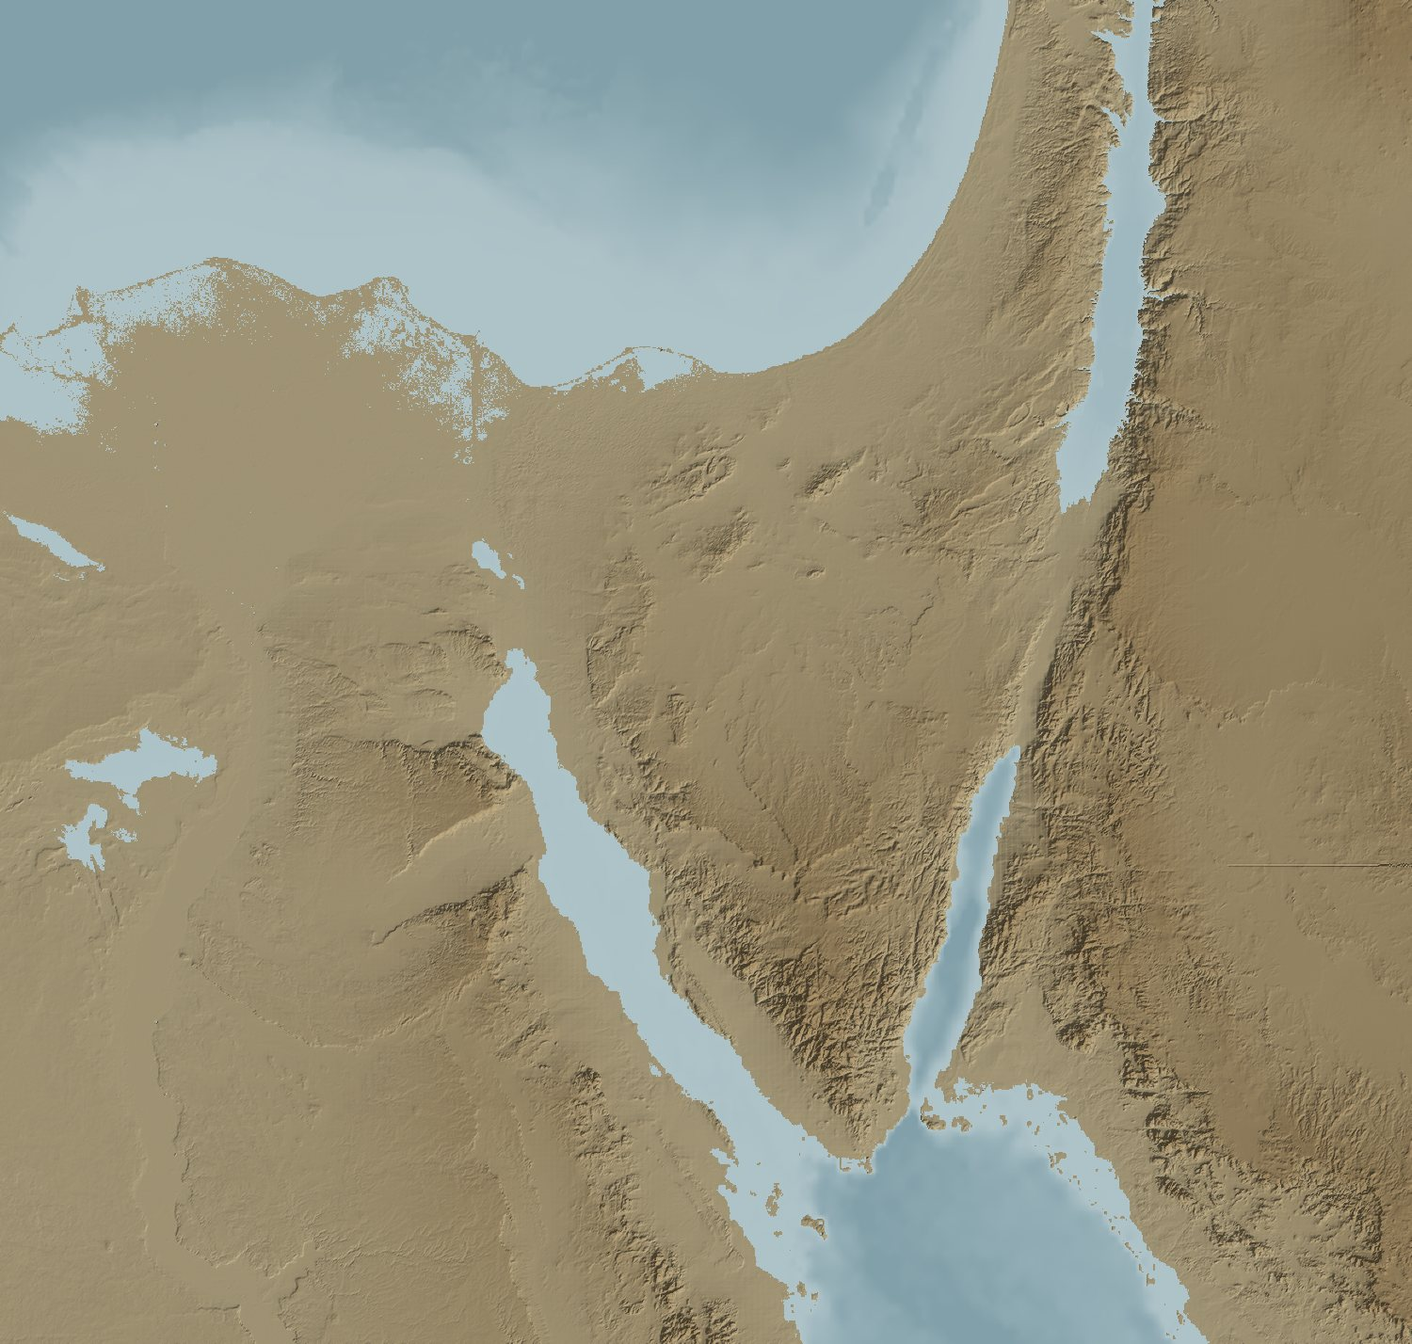
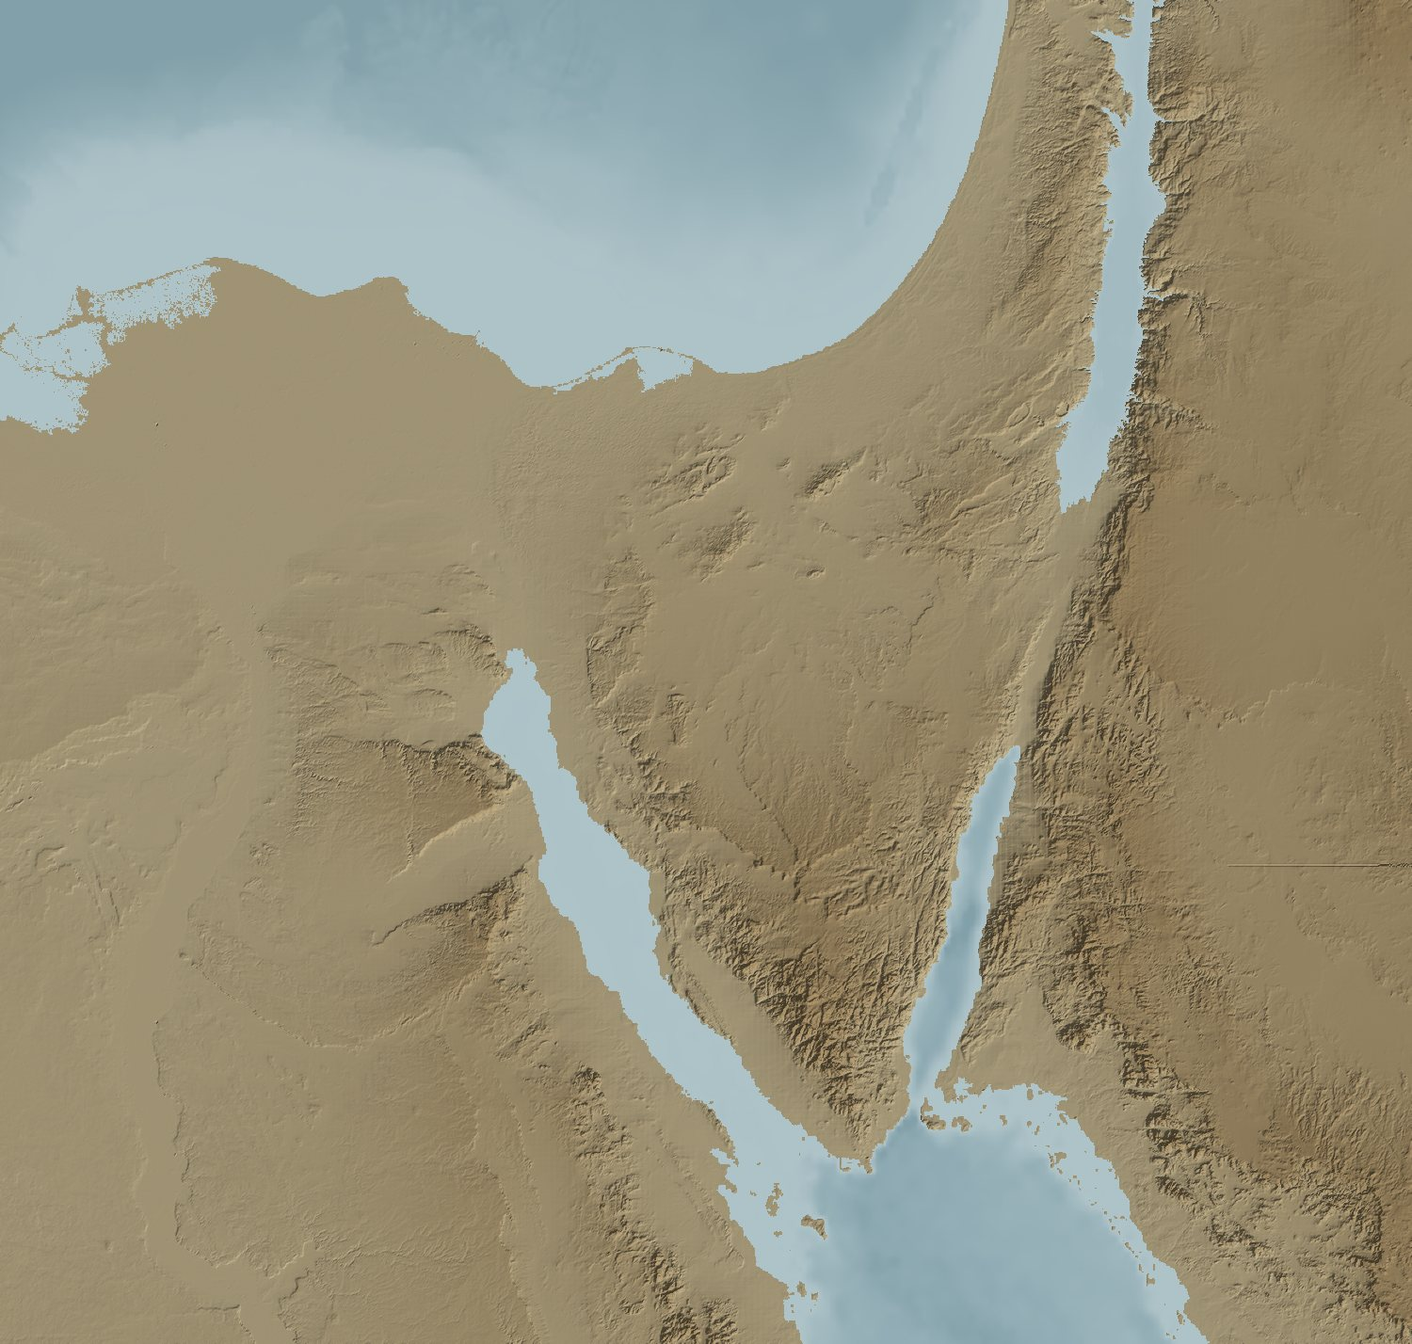
Fix map stop-clicks (pointer capture) + accurate Dead Sea on the relief
CLICKS: every map captured the pointer on pointer-DOWN, which redirected the
click off the stop to the SVG, so clicking a stop did nothing. Now the
pointer is captured only once a real drag begins, so a plain click passes
through to the stop. Applied to all five map generators (OT maps, journey
maps, Land of Israel, Nativity, explorer); OT maps also guard the
background-click revert against stop clicks. Verified: clicking a stop now
opens its detail in the info panel.

DEAD SEA: the relief painted everything below sea level as water, but the
Dead Sea is the lowest land on earth (-430 m) and the whole Jordan Rift is
below sea level — so the lake bled up and down the valley and looked
bloated. Now water = the real OCEAN (flood-filled from the map edges so
inland depressions are excluded) PLUS the named lakes drawn to their true
Natural-Earth outline (Dead Sea, Sea of Galilee). The Dead Sea is now
properly proportioned; the gulfs/seas keep their crisp coastlines.

(Basemap = open Terrarium elevation tiles; modern terrain, so exact ancient
shorelines can't be certain — but it's now geographically faithful.)

diff --git a/old-testament-timeline/bible-lands-maps.html b/old-testament-timeline/bible-lands-maps.html
@@ -150,10 +150,11 @@ function initZoom(svg, FW, FH) {
   st.zoomAt = (px,py,f)=>{ let nw=Math.min(FW,Math.max(st.MINW,st.w*f)); const k=nw/st.w; st.w=nw; st.h*=k; st.x=px-(px-st.x)*k; st.y=py-(py-st.y)*k; clamp(); apply(); };
   st.reset = ()=>{ st.x=0;st.y=0;st.w=FW;st.h=FH; apply(); };
   svg.addEventListener('wheel', e=>{ e.preventDefault(); const p=c2s(e.clientX,e.clientY); st.zoomAt(p.x,p.y,e.deltaY<0?0.84:1/0.84); }, {passive:false});
-  let drag=null, moved=false;
-  svg.addEventListener('pointerdown', e=>{ drag={x:e.clientX,y:e.clientY}; moved=false; svg.setPointerCapture(e.pointerId); });
+  let drag=null, moved=false, pid=null;
+  svg.addEventListener('pointerdown', e=>{ drag={x:e.clientX,y:e.clientY}; moved=false; pid=e.pointerId; });
   svg.addEventListener('pointermove', e=>{ if(!drag)return; const r=svg.getBoundingClientRect();
-    if(Math.abs(e.clientX-drag.x)+Math.abs(e.clientY-drag.y)>4) moved=true;
+    if(Math.abs(e.clientX-drag.x)+Math.abs(e.clientY-drag.y)>4 && !moved){ moved=true; try{svg.setPointerCapture(pid);}catch(_){} }
+    if(!moved) return;
     st.x-=(e.clientX-drag.x)/r.width*st.w; st.y-=(e.clientY-drag.y)/r.height*st.h; drag={x:e.clientX,y:e.clientY}; clamp(); apply(); });
   svg.addEventListener('pointerup', ()=> drag=null);
   let pinch=null;
@@ -162,7 +163,7 @@ function initZoom(svg, FW, FH) {
     const mx=(e.touches[0].clientX+e.touches[1].clientX)/2, my=(e.touches[0].clientY+e.touches[1].clientY)/2;
     if(pinch){ const p=c2s(mx,my); st.zoomAt(p.x,p.y,pinch/d); } pinch=d; }, {passive:false});
   svg.addEventListener('touchend', ()=>pinch=null);
-  svg.closest('.mapbox').addEventListener('click', ()=>{ if(!moved) setMapInfo(svg.closest('.mapsec')); });
+  svg.closest('.mapbox').addEventListener('click', (e)=>{ if(!moved && !e.target.closest('.pt')) setMapInfo(svg.closest('.mapsec')); });
 }
 
 // build each map's points + zoom

diff --git a/maps/index.html b/maps/index.html
@@ -233,8 +233,8 @@ function c2s(cx,cy){ const r=svg.getBoundingClientRect(); return {x:vb.x+(cx-r.l
 function zoomAt(px,py,f){ let nw=Math.min(FULLW,Math.max(MINW,vb.w*f)); const k=nw/vb.w; vb.w=nw; vb.h*=k; vb.x=px-(px-vb.x)*k; vb.y=py-(py-vb.y)*k; clamp(); ap(); }
 svg.addEventListener('wheel',e=>{ e.preventDefault(); const p=c2s(e.clientX,e.clientY); zoomAt(p.x,p.y,e.deltaY<0?0.82:1/0.82); },{passive:false});
 let drag=null, moved=false;
-svg.addEventListener('pointerdown',e=>{ drag={x:e.clientX,y:e.clientY}; moved=false; svg.setPointerCapture(e.pointerId); });
-svg.addEventListener('pointermove',e=>{ if(!drag)return; const r=svg.getBoundingClientRect(); if(Math.abs(e.clientX-drag.x)+Math.abs(e.clientY-drag.y)>4) moved=true; vb.x-=(e.clientX-drag.x)/r.width*vb.w; vb.y-=(e.clientY-drag.y)/r.height*vb.h; drag={x:e.clientX,y:e.clientY}; clamp(); ap(); });
+svg.addEventListener('pointerdown',e=>{ drag={x:e.clientX,y:e.clientY,pid:e.pointerId}; moved=false; });
+svg.addEventListener('pointermove',e=>{ if(!drag)return; const r=svg.getBoundingClientRect(); if(Math.abs(e.clientX-drag.x)+Math.abs(e.clientY-drag.y)>4&&!moved){ moved=true; try{svg.setPointerCapture(drag.pid);}catch(_){} } if(!moved)return; vb.x-=(e.clientX-drag.x)/r.width*vb.w; vb.y-=(e.clientY-drag.y)/r.height*vb.h; drag={x:e.clientX,y:e.clientY,pid:drag.pid}; clamp(); ap(); });
 svg.addEventListener('pointerup',()=>drag=null);
 let pinch=null;
 svg.addEventListener('touchmove',e=>{ if(e.touches.length!==2)return; e.preventDefault(); const d=Math.hypot(e.touches[0].clientX-e.touches[1].clientX,e.touches[0].clientY-e.touches[1].clientY); const mx=(e.touches[0].clientX+e.touches[1].clientX)/2,my=(e.touches[0].clientY+e.touches[1].clientY)/2; if(pinch){const p=c2s(mx,my); zoomAt(p.x,p.y,pinch/d);} pinch=d; },{passive:false});

diff --git a/the-life-of-christ/nativity-route.html b/the-life-of-christ/nativity-route.html
@@ -112,8 +112,8 @@ const c2s = (cx,cy)=>{ const r=svg.getBoundingClientRect(); return {x:vb.x+(cx-r
 const zoomAt = (px,py,f)=>{ let nw=Math.min(FULLW,Math.max(MINW,vb.w*f)); const k=nw/vb.w; vb.w=nw; vb.h*=k; vb.x=px-(px-vb.x)*k; vb.y=py-(py-vb.y)*k; cl(); ap(); };
 svg.addEventListener('wheel',e=>{ e.preventDefault(); const p=c2s(e.clientX,e.clientY); zoomAt(p.x,p.y,e.deltaY<0?0.84:1/0.84); },{passive:false});
 let drag=null, moved=false;
-svg.addEventListener('pointerdown',e=>{ drag={x:e.clientX,y:e.clientY}; moved=false; svg.setPointerCapture(e.pointerId); });
-svg.addEventListener('pointermove',e=>{ if(!drag)return; const r=svg.getBoundingClientRect(); if(Math.abs(e.clientX-drag.x)+Math.abs(e.clientY-drag.y)>4) moved=true; vb.x-=(e.clientX-drag.x)/r.width*vb.w; vb.y-=(e.clientY-drag.y)/r.height*vb.h; drag={x:e.clientX,y:e.clientY}; cl(); ap(); });
+svg.addEventListener('pointerdown',e=>{ drag={x:e.clientX,y:e.clientY,pid:e.pointerId}; moved=false; });
+svg.addEventListener('pointermove',e=>{ if(!drag)return; const r=svg.getBoundingClientRect(); if(Math.abs(e.clientX-drag.x)+Math.abs(e.clientY-drag.y)>4&&!moved){ moved=true; try{svg.setPointerCapture(drag.pid);}catch(_){} } if(!moved)return; vb.x-=(e.clientX-drag.x)/r.width*vb.w; vb.y-=(e.clientY-drag.y)/r.height*vb.h; drag={x:e.clientX,y:e.clientY,pid:drag.pid}; cl(); ap(); });
 svg.addEventListener('pointerup',()=>drag=null);
 let pinch=null;
 svg.addEventListener('touchmove',e=>{ if(e.touches.length!==2)return; e.preventDefault(); const d=Math.hypot(e.touches[0].clientX-e.touches[1].clientX,e.touches[0].clientY-e.touches[1].clientY); const mx=(e.touches[0].clientX+e.touches[1].clientX)/2,my=(e.touches[0].clientY+e.touches[1].clientY)/2; if(pinch){const p=c2s(mx,my); zoomAt(p.x,p.y,pinch/d);} pinch=d; },{passive:false});

diff --git a/the-church-christ-built/journey-maps.html b/the-church-christ-built/journey-maps.html
@@ -155,8 +155,8 @@ function zoomAt(px,py,f){ let nw=Math.min(FULLW,Math.max(MINW,vb.w*f)); const k=
 function resetVB(){ vb={x:0,y:0,w:FULLW,h:FULLH}; applyVB(); }
 svgEl.addEventListener('wheel',e=>{ e.preventDefault(); const p=c2s(e.clientX,e.clientY); zoomAt(p.x,p.y,e.deltaY<0?0.84:1/0.84); },{passive:false});
 let mdrag=null, mmoved=false;
-svgEl.addEventListener('pointerdown',e=>{ mdrag={x:e.clientX,y:e.clientY}; mmoved=false; svgEl.setPointerCapture(e.pointerId); });
-svgEl.addEventListener('pointermove',e=>{ if(!mdrag)return; const r=svgEl.getBoundingClientRect(); if(Math.abs(e.clientX-mdrag.x)+Math.abs(e.clientY-mdrag.y)>4) mmoved=true; vb.x-=(e.clientX-mdrag.x)/r.width*vb.w; vb.y-=(e.clientY-mdrag.y)/r.height*vb.h; mdrag={x:e.clientX,y:e.clientY}; clampVB(); applyVB(); });
+svgEl.addEventListener('pointerdown',e=>{ mdrag={x:e.clientX,y:e.clientY,pid:e.pointerId}; mmoved=false; });
+svgEl.addEventListener('pointermove',e=>{ if(!mdrag)return; const r=svgEl.getBoundingClientRect(); if(Math.abs(e.clientX-mdrag.x)+Math.abs(e.clientY-mdrag.y)>4&&!mmoved){ mmoved=true; try{svgEl.setPointerCapture(mdrag.pid);}catch(_){} } if(!mmoved)return; vb.x-=(e.clientX-mdrag.x)/r.width*vb.w; vb.y-=(e.clientY-mdrag.y)/r.height*vb.h; mdrag={x:e.clientX,y:e.clientY,pid:mdrag.pid}; clampVB(); applyVB(); });
 svgEl.addEventListener('pointerup',()=>mdrag=null);
 let mpinch=null;
 svgEl.addEventListener('touchmove',e=>{ if(e.touches.length!==2)return; e.preventDefault(); const d=Math.hypot(e.touches[0].clientX-e.touches[1].clientX,e.touches[0].clientY-e.touches[1].clientY); const mx=(e.touches[0].clientX+e.touches[1].clientX)/2,my=(e.touches[0].clientY+e.touches[1].clientY)/2; if(mpinch){const p=c2s(mx,my); zoomAt(p.x,p.y,mpinch/d);} mpinch=d; },{passive:false});

diff --git a/the-life-of-christ/land-of-israel.html b/the-life-of-christ/land-of-israel.html
@@ -97,10 +97,11 @@ function c2s(cx,cy){ const r = svg.getBoundingClientRect(); return { x: vb.x + (
 function zoomAt(px,py,f){ let nw = Math.min(FULL.w, Math.max(MINW, vb.w*f)); const k = nw/vb.w; vb.w = nw; vb.h *= k; vb.x = px-(px-vb.x)*k; vb.y = py-(py-vb.y)*k; clampPan(); apply(); }
 svg.addEventListener('wheel', e => { e.preventDefault(); const p = c2s(e.clientX,e.clientY); zoomAt(p.x,p.y, e.deltaY<0?0.84:1/0.84); }, {passive:false});
 let drag = null, moved = false;
-svg.addEventListener('pointerdown', e => { drag = {x:e.clientX,y:e.clientY}; moved = false; svg.setPointerCapture(e.pointerId); });
+svg.addEventListener('pointerdown', e => { drag = {x:e.clientX,y:e.clientY,pid:e.pointerId}; moved = false; });
 svg.addEventListener('pointermove', e => { if(!drag) return; const r = svg.getBoundingClientRect();
-  if (Math.abs(e.clientX-drag.x)+Math.abs(e.clientY-drag.y) > 4) moved = true;
-  vb.x -= (e.clientX-drag.x)/r.width*vb.w; vb.y -= (e.clientY-drag.y)/r.height*vb.h; drag = {x:e.clientX,y:e.clientY}; clampPan(); apply(); });
+  if (Math.abs(e.clientX-drag.x)+Math.abs(e.clientY-drag.y) > 4 && !moved) { moved = true; try{svg.setPointerCapture(drag.pid);}catch(_){} }
+  if (!moved) return;
+  vb.x -= (e.clientX-drag.x)/r.width*vb.w; vb.y -= (e.clientY-drag.y)/r.height*vb.h; drag = {x:e.clientX,y:e.clientY,pid:drag.pid}; clampPan(); apply(); });
 svg.addEventListener('pointerup', () => { drag = null; });
 // pinch
 let pinch = null;

diff --git a/tools/build_relief.py b/tools/build_relief.py
@@ -10,9 +10,9 @@ a relief — it needs network to fetch the elevation tiles.
 
   python3 tools/build_relief.py
 """
-import io, math, os, urllib.request
+import io, json, math, os, urllib.request
 import numpy as np
-from PIL import Image
+from PIL import Image, ImageDraw
 
 ROOT = os.path.dirname(os.path.dirname(os.path.abspath(__file__)))
 UA = "Mozilla/5.0 NobleMindRelief/1.0"
@@ -35,6 +35,31 @@ def fetch_tile(z, x, y):
 def merc_y(lat):
     lr = math.radians(lat)
     return (1 - math.log(math.tan(lr) + 1 / math.cos(lr)) / math.pi) / 2
+
+
+NE_LAKES = "/tmp/ne_lakes.geojson"
+
+def rasterize_lakes(bbox, out_w, out_h):
+    """A boolean mask of the named inland lakes (Dead Sea, Sea of Galilee) drawn
+    to their true Natural Earth outline, so the water body is the actual lake —
+    not the whole below-sea-level rift."""
+    lon0, lon1, lat0, lat1 = bbox
+    if not os.path.exists(NE_LAKES):
+        url = "https://raw.githubusercontent.com/nvkelso/natural-earth-vector/master/geojson/ne_10m_lakes.geojson"
+        req = urllib.request.Request(url, headers={"User-Agent": UA})
+        with urllib.request.urlopen(req, timeout=120) as r, open(NE_LAKES, "wb") as f:
+            f.write(r.read())
+    mask = Image.new("1", (out_w, out_h), 0)
+    d = ImageDraw.Draw(mask)
+    for feat in json.load(open(NE_LAKES))["features"]:
+        if (feat["properties"].get("name") or "") not in ("Dead Sea", "Sea of Galilee"):
+            continue
+        g = feat["geometry"]; polys = [g["coordinates"]] if g["type"] == "Polygon" else g["coordinates"]
+        for poly in polys:
+            pts = [((lon - lon0) / (lon1 - lon0) * out_w, (lat1 - lat) / (lat1 - lat0) * out_h) for lon, lat in poly[0]]
+            if len(pts) >= 3:
+                d.polygon(pts, fill=1)
+    return np.asarray(mask, bool)
 
 
 def build_relief(bbox, zoom, out_path, out_w=1500):
@@ -77,18 +102,27 @@ def build_relief(bbox, zoom, out_path, out_w=1500):
     hs = (math.sin(alt) * np.cos(slope) + math.cos(alt) * np.sin(slope) * np.cos(az - aspect))
     hs = np.clip(hs, 0, 1)
 
+    # ----- water = the real OCEAN (flood-filled from the map edges, so the
+    # below-sea-level Jordan Rift is NOT painted as sea) + the named inland
+    # lakes drawn to their true outline (Dead Sea, Sea of Galilee). -----
+    import scipy.ndimage as ndi
+    sea = elev <= 0
+    lbl, _ = ndi.label(sea)
+    border = (set(lbl[0, :]) | set(lbl[-1, :]) | set(lbl[:, 0]) | set(lbl[:, -1])) - {0}
+    ocean = np.isin(lbl, list(border))
+    water = ocean | rasterize_lakes(bbox, out_w, out_h)
+
     img = np.zeros((out_h, out_w, 3), float)
-    land = elev > 0
+    land_m = ~water
     # land: parchment tan -> browner with elevation, modulated by hillshade
     hyp = np.clip(elev / 1400.0, 0, 1)[..., None]
     base = LAND * (1 - hyp) + LAND_HI * hyp
     shade = np.clip(0.55 + 0.7 * (hs - 0.5), 0.35, 1.12)[..., None]
     land_rgb = np.clip(base * shade, 0, 255)
-    # water: shallow -> deep by depth
-    depth = np.clip(-elev / 1200.0, 0, 1)[..., None]
+    depth = np.clip(-elev / 1500.0, 0, 1)[..., None]
     water_rgb = WATER * (1 - depth) + WATER_DEEP * depth
-    img[land] = land_rgb[land]
-    img[~land] = water_rgb[~land]
+    img[land_m] = land_rgb[land_m]
+    img[water] = water_rgb[water]
 
     Image.fromarray(img.astype(np.uint8)).save(out_path, quality=84, optimize=True)
     sz = os.path.getsize(out_path) / 1e3

diff --git a/tools/build_ot_maps.py b/tools/build_ot_maps.py
@@ -380,10 +380,11 @@ function initZoom(svg, FW, FH) {
   st.zoomAt = (px,py,f)=>{ let nw=Math.min(FW,Math.max(st.MINW,st.w*f)); const k=nw/st.w; st.w=nw; st.h*=k; st.x=px-(px-st.x)*k; st.y=py-(py-st.y)*k; clamp(); apply(); };
   st.reset = ()=>{ st.x=0;st.y=0;st.w=FW;st.h=FH; apply(); };
   svg.addEventListener('wheel', e=>{ e.preventDefault(); const p=c2s(e.clientX,e.clientY); st.zoomAt(p.x,p.y,e.deltaY<0?0.84:1/0.84); }, {passive:false});
-  let drag=null, moved=false;
-  svg.addEventListener('pointerdown', e=>{ drag={x:e.clientX,y:e.clientY}; moved=false; svg.setPointerCapture(e.pointerId); });
+  let drag=null, moved=false, pid=null;
+  svg.addEventListener('pointerdown', e=>{ drag={x:e.clientX,y:e.clientY}; moved=false; pid=e.pointerId; });
   svg.addEventListener('pointermove', e=>{ if(!drag)return; const r=svg.getBoundingClientRect();
-    if(Math.abs(e.clientX-drag.x)+Math.abs(e.clientY-drag.y)>4) moved=true;
+    if(Math.abs(e.clientX-drag.x)+Math.abs(e.clientY-drag.y)>4 && !moved){ moved=true; try{svg.setPointerCapture(pid);}catch(_){} }
+    if(!moved) return;
     st.x-=(e.clientX-drag.x)/r.width*st.w; st.y-=(e.clientY-drag.y)/r.height*st.h; drag={x:e.clientX,y:e.clientY}; clamp(); apply(); });
   svg.addEventListener('pointerup', ()=> drag=null);
   let pinch=null;
@@ -392,7 +393,7 @@ function initZoom(svg, FW, FH) {
     const mx=(e.touches[0].clientX+e.touches[1].clientX)/2, my=(e.touches[0].clientY+e.touches[1].clientY)/2;
     if(pinch){ const p=c2s(mx,my); st.zoomAt(p.x,p.y,pinch/d); } pinch=d; }, {passive:false});
   svg.addEventListener('touchend', ()=>pinch=null);
-  svg.closest('.mapbox').addEventListener('click', ()=>{ if(!moved) setMapInfo(svg.closest('.mapsec')); });
+  svg.closest('.mapbox').addEventListener('click', (e)=>{ if(!moved && !e.target.closest('.pt')) setMapInfo(svg.closest('.mapsec')); });
 }
 
 // build each map's points + zoom

diff --git a/tools/build_explorer.py b/tools/build_explorer.py
@@ -378,8 +378,8 @@ function c2s(cx,cy){{ const r=svg.getBoundingClientRect(); return {{x:vb.x+(cx-r
 function zoomAt(px,py,f){{ let nw=Math.min(FULLW,Math.max(MINW,vb.w*f)); const k=nw/vb.w; vb.w=nw; vb.h*=k; vb.x=px-(px-vb.x)*k; vb.y=py-(py-vb.y)*k; clamp(); ap(); }}
 svg.addEventListener('wheel',e=>{{ e.preventDefault(); const p=c2s(e.clientX,e.clientY); zoomAt(p.x,p.y,e.deltaY<0?0.82:1/0.82); }},{{passive:false}});
 let drag=null, moved=false;
-svg.addEventListener('pointerdown',e=>{{ drag={{x:e.clientX,y:e.clientY}}; moved=false; svg.setPointerCapture(e.pointerId); }});
-svg.addEventListener('pointermove',e=>{{ if(!drag)return; const r=svg.getBoundingClientRect(); if(Math.abs(e.clientX-drag.x)+Math.abs(e.clientY-drag.y)>4) moved=true; vb.x-=(e.clientX-drag.x)/r.width*vb.w; vb.y-=(e.clientY-drag.y)/r.height*vb.h; drag={{x:e.clientX,y:e.clientY}}; clamp(); ap(); }});
+svg.addEventListener('pointerdown',e=>{{ drag={{x:e.clientX,y:e.clientY,pid:e.pointerId}}; moved=false; }});
+svg.addEventListener('pointermove',e=>{{ if(!drag)return; const r=svg.getBoundingClientRect(); if(Math.abs(e.clientX-drag.x)+Math.abs(e.clientY-drag.y)>4&&!moved){{ moved=true; try{{svg.setPointerCapture(drag.pid);}}catch(_){{}} }} if(!moved)return; vb.x-=(e.clientX-drag.x)/r.width*vb.w; vb.y-=(e.clientY-drag.y)/r.height*vb.h; drag={{x:e.clientX,y:e.clientY,pid:drag.pid}}; clamp(); ap(); }});
 svg.addEventListener('pointerup',()=>drag=null);
 let pinch=null;
 svg.addEventListener('touchmove',e=>{{ if(e.touches.length!==2)return; e.preventDefault(); const d=Math.hypot(e.touches[0].clientX-e.touches[1].clientX,e.touches[0].clientY-e.touches[1].clientY); const mx=(e.touches[0].clientX+e.touches[1].clientX)/2,my=(e.touches[0].clientY+e.touches[1].clientY)/2; if(pinch){{const p=c2s(mx,my); zoomAt(p.x,p.y,pinch/d);}} pinch=d; }},{{passive:false}});

diff --git a/tools/build_nativity_map.py b/tools/build_nativity_map.py
@@ -214,8 +214,8 @@ const c2s = (cx,cy)=>{{ const r=svg.getBoundingClientRect(); return {{x:vb.x+(cx
 const zoomAt = (px,py,f)=>{{ let nw=Math.min(FULLW,Math.max(MINW,vb.w*f)); const k=nw/vb.w; vb.w=nw; vb.h*=k; vb.x=px-(px-vb.x)*k; vb.y=py-(py-vb.y)*k; cl(); ap(); }};
 svg.addEventListener('wheel',e=>{{ e.preventDefault(); const p=c2s(e.clientX,e.clientY); zoomAt(p.x,p.y,e.deltaY<0?0.84:1/0.84); }},{{passive:false}});
 let drag=null, moved=false;
-svg.addEventListener('pointerdown',e=>{{ drag={{x:e.clientX,y:e.clientY}}; moved=false; svg.setPointerCapture(e.pointerId); }});
-svg.addEventListener('pointermove',e=>{{ if(!drag)return; const r=svg.getBoundingClientRect(); if(Math.abs(e.clientX-drag.x)+Math.abs(e.clientY-drag.y)>4) moved=true; vb.x-=(e.clientX-drag.x)/r.width*vb.w; vb.y-=(e.clientY-drag.y)/r.height*vb.h; drag={{x:e.clientX,y:e.clientY}}; cl(); ap(); }});
+svg.addEventListener('pointerdown',e=>{{ drag={{x:e.clientX,y:e.clientY,pid:e.pointerId}}; moved=false; }});
+svg.addEventListener('pointermove',e=>{{ if(!drag)return; const r=svg.getBoundingClientRect(); if(Math.abs(e.clientX-drag.x)+Math.abs(e.clientY-drag.y)>4&&!moved){{ moved=true; try{{svg.setPointerCapture(drag.pid);}}catch(_){{}} }} if(!moved)return; vb.x-=(e.clientX-drag.x)/r.width*vb.w; vb.y-=(e.clientY-drag.y)/r.height*vb.h; drag={{x:e.clientX,y:e.clientY,pid:drag.pid}}; cl(); ap(); }});
 svg.addEventListener('pointerup',()=>drag=null);
 let pinch=null;
 svg.addEventListener('touchmove',e=>{{ if(e.touches.length!==2)return; e.preventDefault(); const d=Math.hypot(e.touches[0].clientX-e.touches[1].clientX,e.touches[0].clientY-e.touches[1].clientY); const mx=(e.touches[0].clientX+e.touches[1].clientX)/2,my=(e.touches[0].clientY+e.touches[1].clientY)/2; if(pinch){{const p=c2s(mx,my); zoomAt(p.x,p.y,pinch/d);}} pinch=d; }},{{passive:false}});

diff --git a/tools/build_journey_maps.py b/tools/build_journey_maps.py
@@ -386,8 +386,8 @@ function zoomAt(px,py,f){{ let nw=Math.min(FULLW,Math.max(MINW,vb.w*f)); const k
 function resetVB(){{ vb={{x:0,y:0,w:FULLW,h:FULLH}}; applyVB(); }}
 svgEl.addEventListener('wheel',e=>{{ e.preventDefault(); const p=c2s(e.clientX,e.clientY); zoomAt(p.x,p.y,e.deltaY<0?0.84:1/0.84); }},{{passive:false}});
 let mdrag=null, mmoved=false;
-svgEl.addEventListener('pointerdown',e=>{{ mdrag={{x:e.clientX,y:e.clientY}}; mmoved=false; svgEl.setPointerCapture(e.pointerId); }});
-svgEl.addEventListener('pointermove',e=>{{ if(!mdrag)return; const r=svgEl.getBoundingClientRect(); if(Math.abs(e.clientX-mdrag.x)+Math.abs(e.clientY-mdrag.y)>4) mmoved=true; vb.x-=(e.clientX-mdrag.x)/r.width*vb.w; vb.y-=(e.clientY-mdrag.y)/r.height*vb.h; mdrag={{x:e.clientX,y:e.clientY}}; clampVB(); applyVB(); }});
+svgEl.addEventListener('pointerdown',e=>{{ mdrag={{x:e.clientX,y:e.clientY,pid:e.pointerId}}; mmoved=false; }});
+svgEl.addEventListener('pointermove',e=>{{ if(!mdrag)return; const r=svgEl.getBoundingClientRect(); if(Math.abs(e.clientX-mdrag.x)+Math.abs(e.clientY-mdrag.y)>4&&!mmoved){{ mmoved=true; try{{svgEl.setPointerCapture(mdrag.pid);}}catch(_){{}} }} if(!mmoved)return; vb.x-=(e.clientX-mdrag.x)/r.width*vb.w; vb.y-=(e.clientY-mdrag.y)/r.height*vb.h; mdrag={{x:e.clientX,y:e.clientY,pid:mdrag.pid}}; clampVB(); applyVB(); }});
 svgEl.addEventListener('pointerup',()=>mdrag=null);
 let mpinch=null;
 svgEl.addEventListener('touchmove',e=>{{ if(e.touches.length!==2)return; e.preventDefault(); const d=Math.hypot(e.touches[0].clientX-e.touches[1].clientX,e.touches[0].clientY-e.touches[1].clientY); const mx=(e.touches[0].clientX+e.touches[1].clientX)/2,my=(e.touches[0].clientY+e.touches[1].clientY)/2; if(mpinch){{const p=c2s(mx,my); zoomAt(p.x,p.y,mpinch/d);}} mpinch=d; }},{{passive:false}});

diff --git a/tools/build_land_map.py b/tools/build_land_map.py
@@ -282,10 +282,11 @@ function c2s(cx,cy){ const r = svg.getBoundingClientRect(); return { x: vb.x + (
 function zoomAt(px,py,f){ let nw = Math.min(FULL.w, Math.max(MINW, vb.w*f)); const k = nw/vb.w; vb.w = nw; vb.h *= k; vb.x = px-(px-vb.x)*k; vb.y = py-(py-vb.y)*k; clampPan(); apply(); }
 svg.addEventListener('wheel', e => { e.preventDefault(); const p = c2s(e.clientX,e.clientY); zoomAt(p.x,p.y, e.deltaY<0?0.84:1/0.84); }, {passive:false});
 let drag = null, moved = false;
-svg.addEventListener('pointerdown', e => { drag = {x:e.clientX,y:e.clientY}; moved = false; svg.setPointerCapture(e.pointerId); });
+svg.addEventListener('pointerdown', e => { drag = {x:e.clientX,y:e.clientY,pid:e.pointerId}; moved = false; });
 svg.addEventListener('pointermove', e => { if(!drag) return; const r = svg.getBoundingClientRect();
-  if (Math.abs(e.clientX-drag.x)+Math.abs(e.clientY-drag.y) > 4) moved = true;
-  vb.x -= (e.clientX-drag.x)/r.width*vb.w; vb.y -= (e.clientY-drag.y)/r.height*vb.h; drag = {x:e.clientX,y:e.clientY}; clampPan(); apply(); });
+  if (Math.abs(e.clientX-drag.x)+Math.abs(e.clientY-drag.y) > 4 && !moved) { moved = true; try{svg.setPointerCapture(drag.pid);}catch(_){} }
+  if (!moved) return;
+  vb.x -= (e.clientX-drag.x)/r.width*vb.w; vb.y -= (e.clientY-drag.y)/r.height*vb.h; drag = {x:e.clientX,y:e.clientY,pid:drag.pid}; clampPan(); apply(); });
 svg.addEventListener('pointerup', () => { drag = null; });
 // pinch
 let pinch = null;
